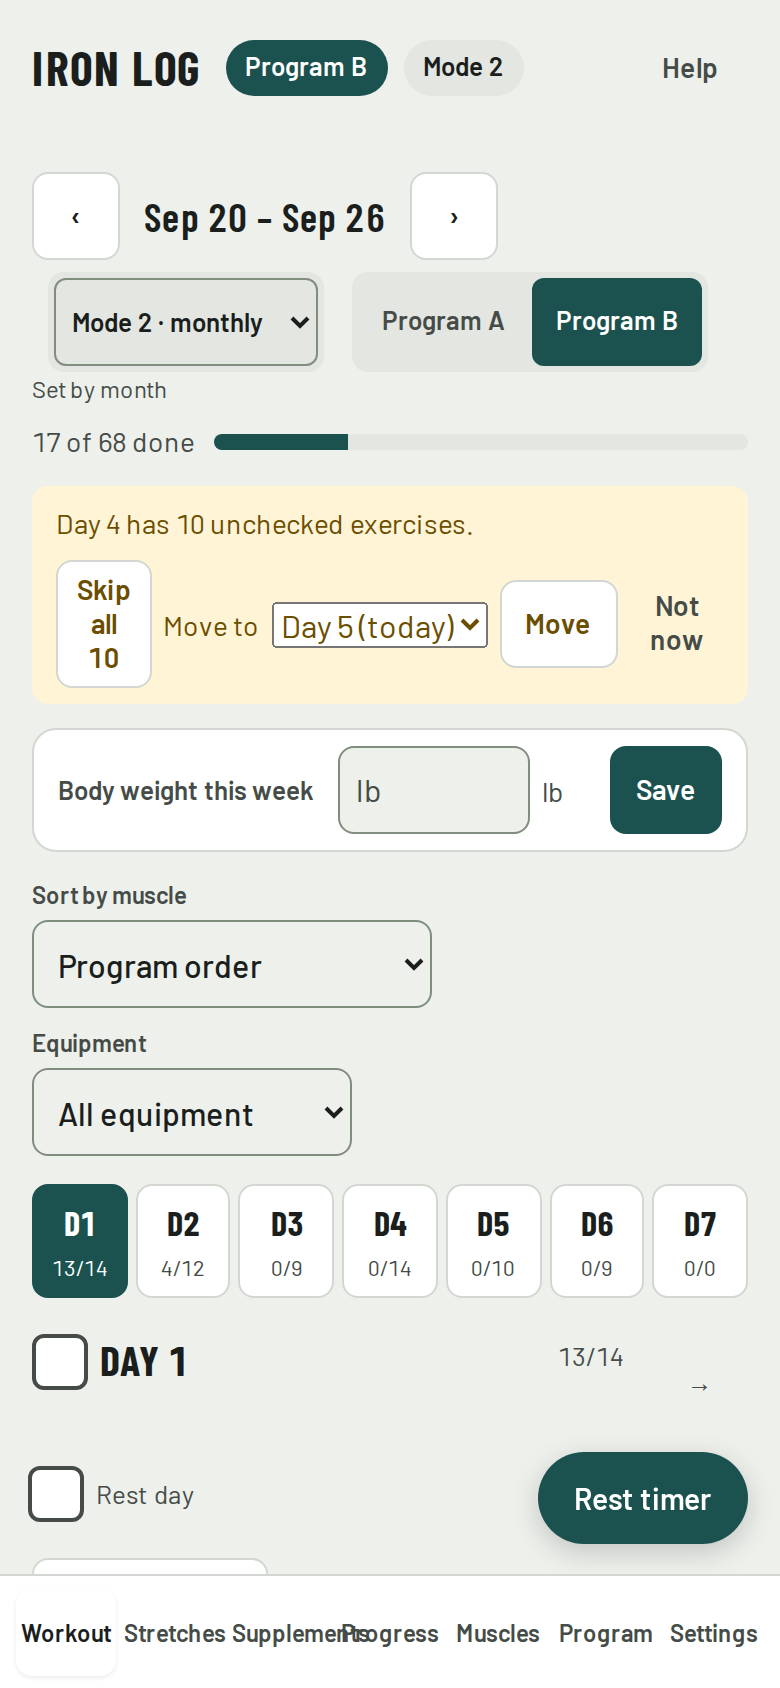
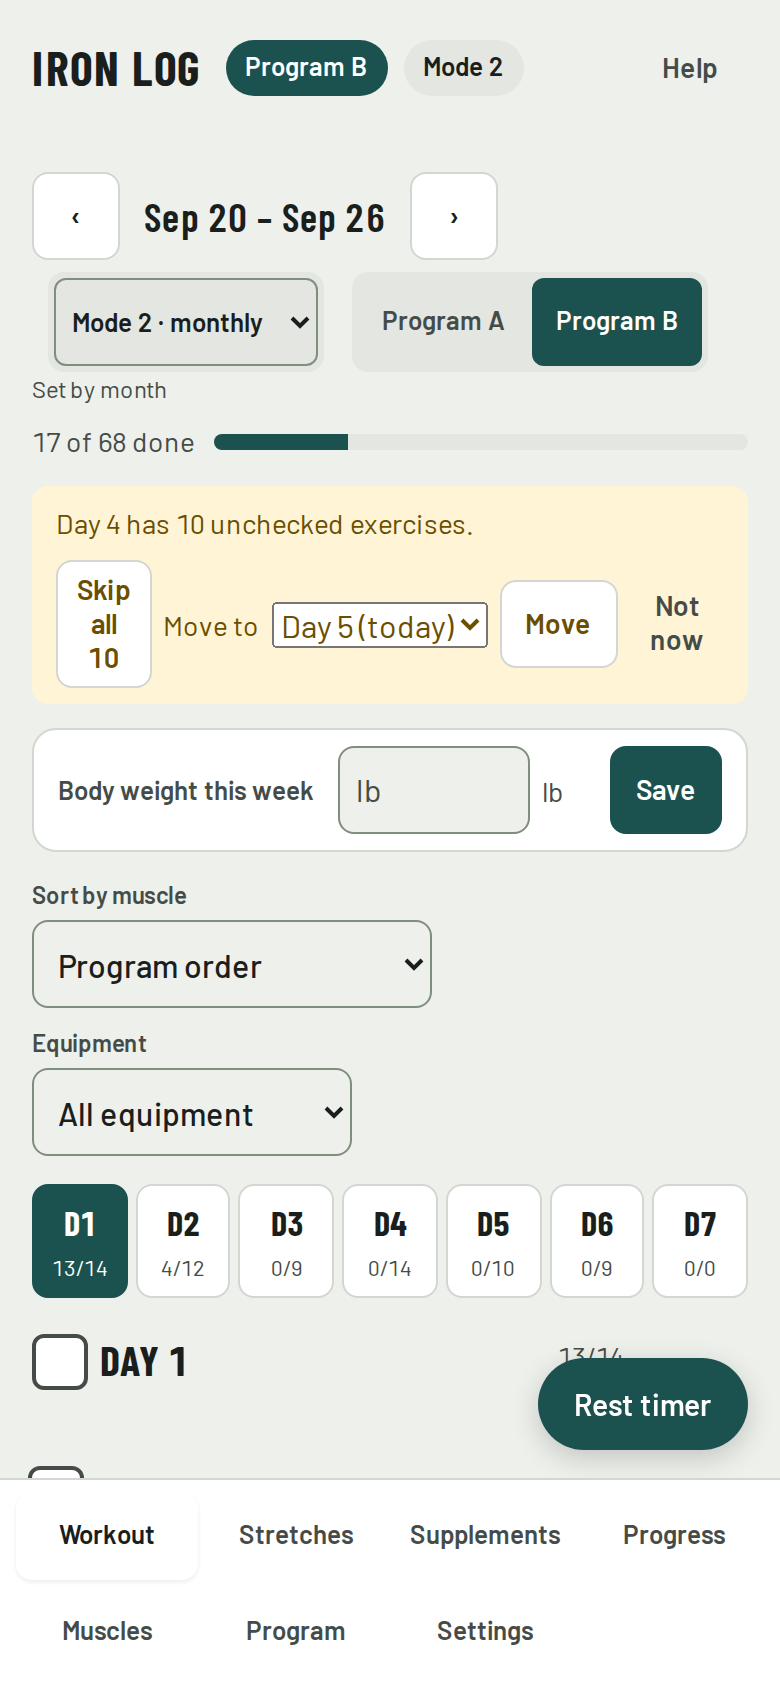
Lay the phone tab bar out in two rows so seven tabs fit (#62)
* Lay the phone tab bar out in two rows so seven tabs fit

* Update README screenshots

---------

Changed region(s): [[0.0308, 0.8009, 0.9846, 0.9858], [0.0308, 0.8626, 0.2462, 0.9242], [0.3077, 0.8934, 0.4615, 0.9242]]

diff --git a/src/styles.css b/src/styles.css
@@ -395,11 +395,14 @@ body.timing{padding-bottom:130px}
 .tbl td:first-child{min-width:110px}
 @media (prefers-reduced-motion:reduce){*{transition:none!important}}
 @media (max-width:700px){
-  body{padding-bottom:calc(130px + env(safe-area-inset-bottom, 0px))}
+  :root{--tabbar:105px}
+  body{padding-bottom:calc(var(--tabbar) + 72px + env(safe-area-inset-bottom, 0px))}
   header.top{padding-block:12px 6px;gap:8px 12px}
   header.top h1{font-size:24px}
   .tabs{position:fixed;left:0;right:0;bottom:0;margin:0;border-radius:0;z-index:15;padding:6px 8px calc(6px + env(safe-area-inset-bottom, 0px));background:var(--surface);border-top:1px solid var(--line);justify-content:space-around}
-  .tabs button{flex:1;padding:10px 0;font-size:12px;min-width:0}
+  .tabs .tablist{display:grid;grid-template-columns:repeat(4,minmax(0,1fr));gap:4px}
+  .tabs button{padding:10px 2px;font-size:13px;min-width:0}
+  @media (max-width:340px){.tabs button{font-size:11.5px;padding-inline:0}}
   .weekbar{gap:8px}
   .weeknav h2{min-width:0;font-size:20px}
   .progress{width:100%}
@@ -425,9 +428,9 @@ body.timing{padding-bottom:130px}
   .phase{padding:4px 12px}
   .cardfoot select{min-height:36px;padding:4px 6px}
   .fields label:has(#f-d){grid-column:span 2}
-  body.timing{padding-bottom:calc(190px + env(safe-area-inset-bottom, 0px))}
-  .fab{bottom:calc(72px + env(safe-area-inset-bottom, 0px))}
-  .timerbar{bottom:calc(58px + env(safe-area-inset-bottom, 0px));padding-bottom:10px}
+  body.timing{padding-bottom:calc(var(--tabbar) + 132px + env(safe-area-inset-bottom, 0px))}
+  .fab{bottom:calc(var(--tabbar) + 14px + env(safe-area-inset-bottom, 0px))}
+  .timerbar{bottom:calc(var(--tabbar) + env(safe-area-inset-bottom, 0px));padding-bottom:10px}
   .tb-main{flex-basis:100%}
   .tb-btns{width:100%}
   .tb-btns .btn{flex:1}
@@ -495,8 +498,8 @@ input[type=checkbox]:not(.chk),input[type=radio]{width:24px;height:24px;flex:non
 html{scroll-padding-bottom:84px}
 html:has(body.timing){scroll-padding-bottom:140px}
 @media (max-width:700px){
-  html{scroll-padding-top:calc(76px + env(safe-area-inset-top, 0px));scroll-padding-bottom:calc(140px + env(safe-area-inset-bottom, 0px))}
-  html:has(body.timing){scroll-padding-bottom:calc(230px + env(safe-area-inset-bottom, 0px))}
+  html{scroll-padding-top:calc(76px + env(safe-area-inset-top, 0px));scroll-padding-bottom:calc(var(--tabbar) + 82px + env(safe-area-inset-bottom, 0px))}
+  html:has(body.timing){scroll-padding-bottom:calc(var(--tabbar) + 172px + env(safe-area-inset-bottom, 0px))}
   .col .colhead{padding-top:12px}
 }
 
